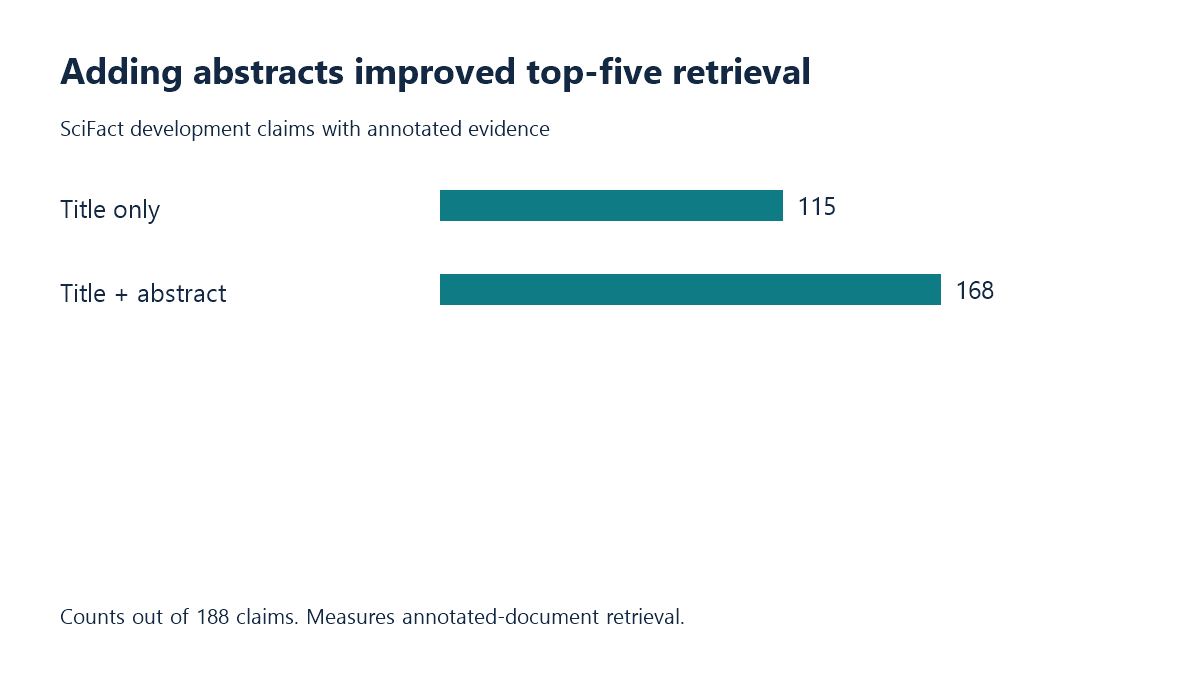
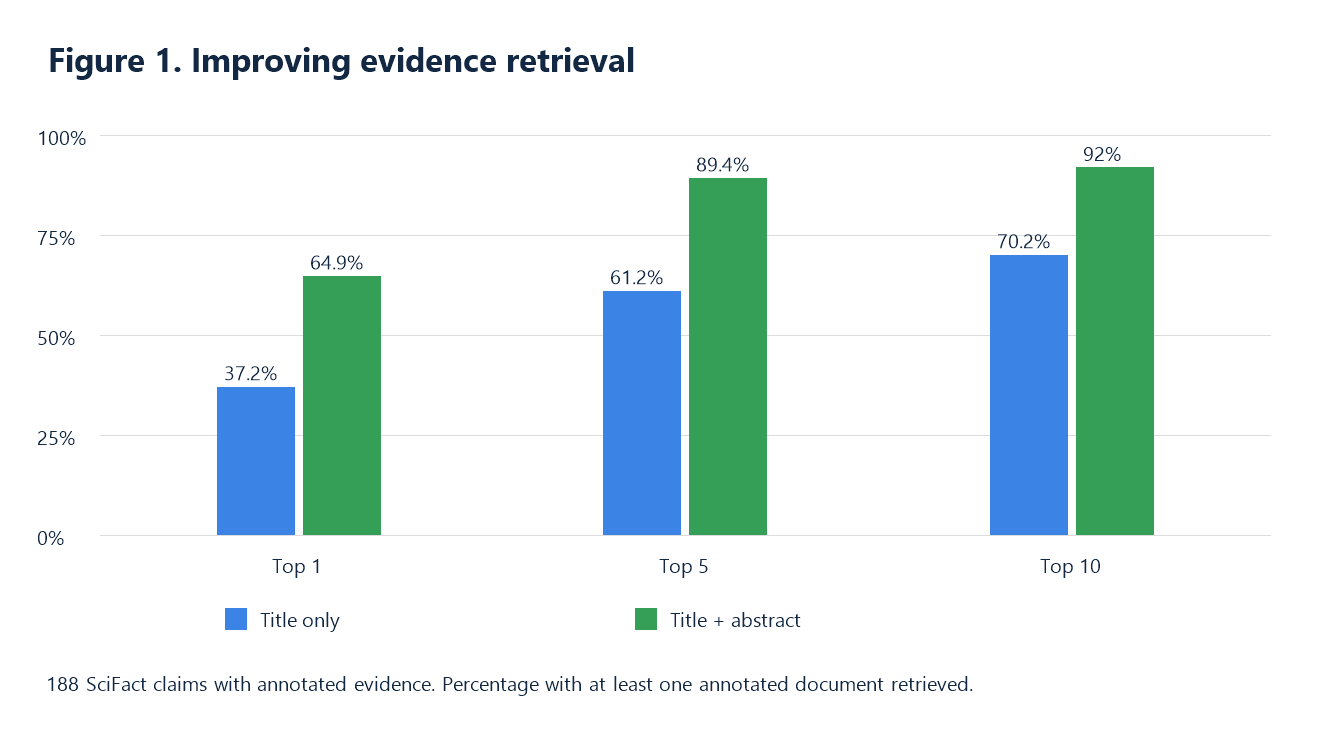
Restore the three specified empirical comparisons

diff --git a/phase-2-scifact/articles/BEYOND-AGREEMENT.md b/phase-2-scifact/articles/BEYOND-AGREEMENT.md
@@ -141,7 +141,7 @@ That distinction is important.
 **Retrieving the right document is a necessary part of many evidence-based evaluations, but it does not guarantee the right conclusion.**
 
 
-![Figure 1. Top-five annotated-document retrieval](figures/ba-figure-1.png)
+![Figure 1. Improving evidence retrieval](figures/ba-figure-1.png)
 
 
 ## 5. Experiment B: Does adding an independent verifier reduce false acceptance?
@@ -189,7 +189,7 @@ The implication was clear.
 A second model call can add cost, reduce automatic coverage and still reproduce the original judge's mistakes.
 
 
-![Figure 2. Review workload in the 30-claim pilot](figures/ba-figure-2.png)
+![Figure 2. Additional verification does not guarantee improvement](figures/ba-figure-2.png)
 
 
 ## 6. Experiment C: Does verifier independence matter?
@@ -252,7 +252,6 @@ The appropriate conclusion is narrower:
 Whether the improvement generalises remains an open question.
 
 
-![Figure 3. Residual false acceptances at a matched review budget](figures/ba-figure-3.png)
 
 
 ## 8. Experiment E: Stress-testing contradicted scientific claims
@@ -302,6 +301,9 @@ The experiment therefore highlighted an important distinction:
 That is useful operational behaviour, but it should not be confused with improved reasoning accuracy.
 
 The 97-claim subset also shared evidence-document relationships with training or earlier experimental claims. Consequently, it is best interpreted as a targeted development stress test, not independent evidence of broad generalisation.
+
+
+![Figure 3. Contradiction stress test at matched review budgets](figures/ba-figure-3.png)
 
 ## 9. What the results tell us about calibration and risk
 
